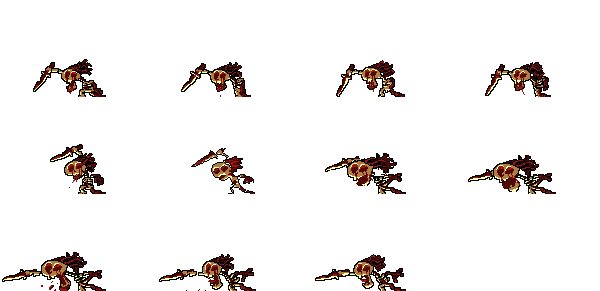
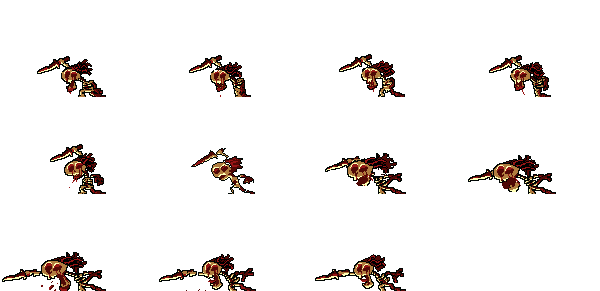
Goul dash on attack

diff --git a/_Scripts/Enemy/Goul/GoulFighter.cs b/_Scripts/Enemy/Goul/GoulFighter.cs
@@ -4,42 +4,43 @@ using UnityEngine;
 
 public class GoulFighter : MonoBehaviour
 {
-    private enum enemyState { idle, follow, attack, stunned, parried };
+    enum enemyState { idle, follow, attackAntic, attack, stunned, parried };
     [SerializeField] private enemyState currentState;
 
-    private Animator anim;
-    private Rigidbody2D theRB;
+    Animator anim;
+    Rigidbody2D theRB;
 
     [Header("Detecting")]
-    public Transform castPoint;
-    public LayerMask action;
+    [SerializeField] Transform castPoint;
+    [SerializeField] LayerMask action;
     [SerializeField] BoxCollider2D detectingArea;
     Vector2 _center, _size;
     [SerializeField] float _debugAlpha;
 
-    private bool canSeePlayer;
+    bool canSeePlayer;
 
     [HideInInspector]
-    public bool isFacingLeft;
-    private bool isPlayerToLeft, wasPlayerToLeft;
+    bool isFacingLeft;
+    bool isPlayerToLeft, wasPlayerToLeft;
 
     [Header("Follow")]
-    public float moveSpeed;
-    public float timeToStopFollowing;
-    private bool isDetecting; // 시야에서 사라진 플레이어를 쫒는 구간을 위한 플래그
-    private bool isSearching; // 플레이어가 시야에서 사라졌고 isDetecting도 false일 때 stopFollowingPlayer 함수를 계속 호출하려 들어가지 못하도록 하는 플래그
-    private bool isChangingDirection;
+    [SerializeField] float moveSpeed;
+    [SerializeField] float timeToStopFollowing;
+    bool isDetecting; // 시야에서 사라진 플레이어를 쫒는 구간을 위한 플래그
+    bool isSearching; // 플레이어가 시야에서 사라졌고 isDetecting도 false일 때 stopFollowingPlayer 함수를 계속 호출하려 들어가지 못하도록 하는 플래그
+    bool isChangingDirection;
 
     [Header("Stunned")]
     EnemyHealth _enemyHealth;
 
     [Header("Attack")]
-    public float attackDistnace;   // raycast 거리 설정
-    public float attackCoolTime;
-    private float attackCounter;
+    [SerializeField] float attackDistnace;   // raycast 거리 설정
+    [SerializeField] float attackCoolTime;
+    [SerializeField] float attackStepForce;
+    float attackCounter;
 
     [Header("HitBox")]
-    public GameObject attackBox;
+    [SerializeField] GameObject attackBox;
 
     private void Start()
     {
@@ -52,6 +53,14 @@ public class GoulFighter : MonoBehaviour
         wasPlayerToLeft = isPlayerToLeft;
         attackBox.gameObject.SetActive(false);
     }
+    bool IsPlayingAnim(string _animation)
+    {
+        if (anim.GetCurrentAnimatorStateInfo(0).IsName(_animation))
+        {
+            return true;
+        }
+        return false;
+    }
 
     private void Update()
     {
@@ -62,26 +71,11 @@ public class GoulFighter : MonoBehaviour
         switch (currentState)
         {
             case enemyState.attack:
-
-                if (CanAttackPlayer())
+                if (IsPlayingAnim("Goul_Fighter_Attack"))
+                    return;
+                if (IsAttackRange() == false)
                 {
-                    if (!anim.GetCurrentAnimatorStateInfo(0).IsName("Goul_Fighter_Attack"))
-                    {
-                        if (attackCounter <= 0f)
-                        {
-                            attackCounter = attackCoolTime;
-
-                            Attack();
-                        }
-                        else
-                        {
-                            attackCounter -= Time.deltaTime;
-                        }
-                    }
-                }
-                else
-                {
-                    if (!anim.GetCurrentAnimatorStateInfo(0).IsName("Goul_Fighter_Attack"))
+                    if (!IsPlayingAnim("Goul_Fighter_Attack"))
                     {
                         // 공격 모션 중이라면 그 모션이 끝이 날 때까지 기다림
                         // Attack 모션은 끝이나면 walk 모션으로 들어감.
@@ -92,8 +86,18 @@ public class GoulFighter : MonoBehaviour
                     {
                         currentState = enemyState.attack;
                     }
+                    return;
                 }
-
+                // 공격 모션 중이 아니면서 공격범위 안에 플레이어가 있다면
+                if (attackCounter > 0f)
+                {
+                    attackCounter -= Time.deltaTime;
+                }
+                else
+                {
+                    attackCounter = attackCoolTime;
+                    Attack();
+                }
                 break;
 
             case enemyState.follow:
@@ -122,7 +126,7 @@ public class GoulFighter : MonoBehaviour
                     FollowPlayer();
                 }
 
-                if (CanAttackPlayer())
+                if (IsAttackRange())
                 {
                     currentState = enemyState.attack;
                 }
@@ -148,9 +152,17 @@ public class GoulFighter : MonoBehaviour
         }
     }
 
+    Vector2 GetDirection()
+    {
+        if (isFacingLeft)
+        {
+            return new Vector2(-1, 0);
+        }
+        return new Vector2(1, 0);
+    }
     void CheckIsFollowing()
     {
-        if (anim.GetCurrentAnimatorStateInfo(0).IsName("Goul_Fighter_Walk"))
+        if (IsPlayingAnim("Goul_Fighter_Walk"))
         {
             currentState = enemyState.follow;
         }
@@ -160,7 +172,7 @@ public class GoulFighter : MonoBehaviour
     {
         if (_enemyHealth.IsStunned())
         {
-            if (!anim.GetCurrentAnimatorStateInfo(0).IsName("Goul_Fighter_Stunned"))
+            if (!IsPlayingAnim("Goul_Fighter_Stunned"))
             {
                 anim.Play("Goul_Fighter_Stunned");
             }
@@ -173,7 +185,7 @@ public class GoulFighter : MonoBehaviour
     {
         if (_enemyHealth.IsParried())
         {
-            if (!anim.GetCurrentAnimatorStateInfo(0).IsName("Goul_Fighter_Parried"))
+            if (!IsPlayingAnim("Goul_Fighter_Parried"))
             {
                 anim.Play("Goul_Fighter_Parried");
             }
@@ -182,7 +194,7 @@ public class GoulFighter : MonoBehaviour
         }
     }
 
-    bool CanAttackPlayer()
+    bool IsAttackRange()
     {
         float _castDistance = attackDistnace;
         bool _canAttackPlayer = false;
@@ -220,10 +232,16 @@ public class GoulFighter : MonoBehaviour
 
     void Attack()
     {
-        if (!anim.GetCurrentAnimatorStateInfo(0).IsName("Goul_Fighter_Stunned"))
+        if (!IsPlayingAnim("Goul_Fighter_Stunned"))
         {
             anim.Play("Goul_Fighter_Attack");
         }
+    }
+
+    //animation event
+    void AttackStep()
+    {
+        theRB.AddForce(attackStepForce * GetDirection(), ForceMode2D.Impulse);
     }
 
     void AttackBoxOn()
